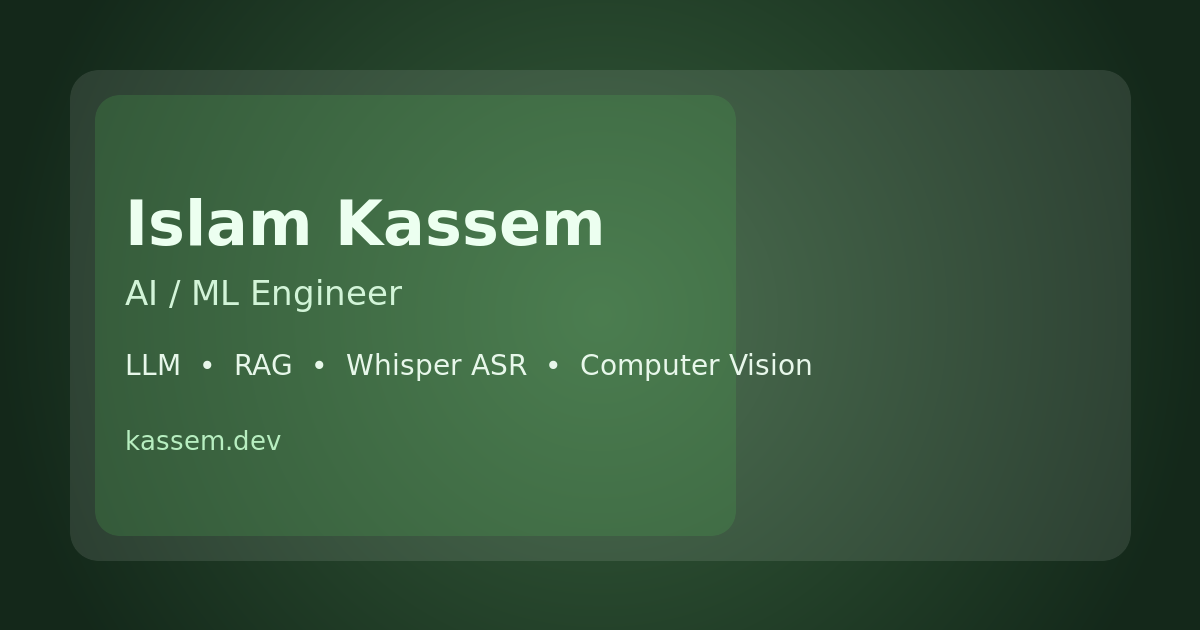
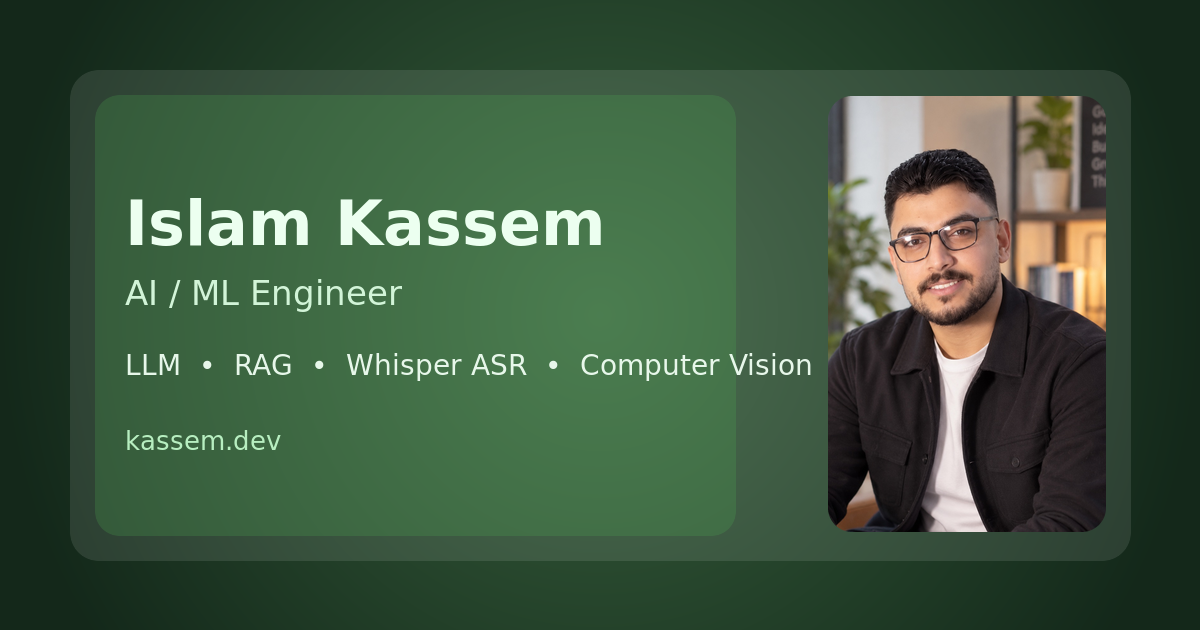
feat: update profile images and enhance hero section with responsive picture elements

Changed region(s): [[0.6783, 0.1508, 0.925, 0.8444]]

diff --git a/home/index.html b/home/index.html
@@ -49,7 +49,11 @@
         "@type": "Person",
         "name": "Islam Kassem",
         "url": "https://kassem.dev/home/",
-        "image": "https://kassem.dev/assets/Islam-Kassem-Profile-Pic.jpg",
+        "image": [
+          "https://kassem.dev/assets/profile/islam-kassem-square-800.jpg",
+          "https://kassem.dev/assets/profile/islam-kassem-4x3-1024.jpg",
+          "https://kassem.dev/assets/profile/islam-kassem-16x9-1200.jpg"
+        ],
         "jobTitle": "AI Engineer",
         "description": "AI Engineer and Machine Learning Engineer specializing in production LLM systems, RAG pipelines, generative AI, Whisper ASR, and MLOps infrastructure.",
         "sameAs": [
@@ -119,9 +123,17 @@
 
         <aside class="hero-panel" aria-label="Key profile details">
           <figure class="profile-card">
-            <img src="/assets/Islam-Kassem-Profile-Pic.jpg"
-              alt="Islam Kassem — AI Engineer and Machine Learning Engineer specializing in LLMs and production ML"
-              width="576" height="1024" loading="eager" decoding="async" fetchpriority="high" />
+            <picture>
+              <source
+                type="image/webp"
+                srcset="/assets/profile/islam-kassem-portrait-400.webp 400w, /assets/profile/islam-kassem-portrait-640.webp 640w, /assets/profile/islam-kassem-portrait-900.webp 900w, /assets/profile/islam-kassem-portrait-1145.webp 1145w"
+                sizes="(max-width: 980px) calc(100vw - 4.5rem), 400px" />
+              <img src="/assets/profile/islam-kassem-portrait-640.jpg"
+                srcset="/assets/profile/islam-kassem-portrait-400.jpg 400w, /assets/profile/islam-kassem-portrait-640.jpg 640w, /assets/profile/islam-kassem-portrait-900.jpg 900w, /assets/profile/islam-kassem-portrait-1145.jpg 1145w"
+                sizes="(max-width: 980px) calc(100vw - 4.5rem), 400px"
+                alt="Islam Kassem — AI Engineer and Machine Learning Engineer specializing in LLMs and production ML"
+                width="1145" height="1374" loading="eager" decoding="async" fetchpriority="high" />
+            </picture>
           </figure>
           <div class="stat-card">
             <span class="stat-value">50+</span>

diff --git a/index.html b/index.html
@@ -49,7 +49,11 @@
 				"@type": "Person",
 				"name": "Islam Kassem",
 				"url": "https://kassem.dev/",
-				"image": "https://kassem.dev/assets/Islam-Kassem-Profile-Pic.jpg",
+				"image": [
+					"https://kassem.dev/assets/profile/islam-kassem-square-800.jpg",
+					"https://kassem.dev/assets/profile/islam-kassem-4x3-1024.jpg",
+					"https://kassem.dev/assets/profile/islam-kassem-16x9-1200.jpg"
+				],
 				"jobTitle": "AI Engineer",
 				"description": "AI Engineer and Machine Learning Engineer specializing in production LLM systems, RAG pipelines, generative AI, Whisper ASR, and MLOps infrastructure.",
 				"sameAs": [
@@ -147,9 +151,17 @@
 
 				<aside class="hero-panel" aria-label="Key profile details">
 					<figure class="profile-card">
-						<img src="assets/Islam-Kassem-Profile-Pic.jpg"
-							alt="Islam Kassem — AI Engineer and Machine Learning Engineer specializing in LLMs and production ML"
-							width="576" height="1024" loading="eager" decoding="async" fetchpriority="high" />
+						<picture>
+							<source
+								type="image/webp"
+								srcset="/assets/profile/islam-kassem-portrait-400.webp 400w, /assets/profile/islam-kassem-portrait-640.webp 640w, /assets/profile/islam-kassem-portrait-900.webp 900w, /assets/profile/islam-kassem-portrait-1145.webp 1145w"
+								sizes="(max-width: 980px) calc(100vw - 4.5rem), 400px" />
+							<img src="/assets/profile/islam-kassem-portrait-640.jpg"
+								srcset="/assets/profile/islam-kassem-portrait-400.jpg 400w, /assets/profile/islam-kassem-portrait-640.jpg 640w, /assets/profile/islam-kassem-portrait-900.jpg 900w, /assets/profile/islam-kassem-portrait-1145.jpg 1145w"
+								sizes="(max-width: 980px) calc(100vw - 4.5rem), 400px"
+								alt="Islam Kassem — AI Engineer and Machine Learning Engineer specializing in LLMs and production ML"
+								width="1145" height="1374" loading="eager" decoding="async" fetchpriority="high" />
+						</picture>
 					</figure>
 					<div class="stat-card">
 						<span class="stat-value">50+</span>

diff --git a/css/styles.css b/css/styles.css
@@ -228,12 +228,17 @@ h3 {
     linear-gradient(180deg, rgba(255, 255, 255, 0.82), rgba(241, 246, 239, 0.92));
 }
 
+.profile-card picture {
+  display: block;
+  height: 100%;
+}
+
 .profile-card img {
   display: block;
   width: 100%;
   height: 100%;
   object-fit: cover;
-  object-position: center 24%;
+  object-position: center 28%;
 }
 
 .stat-card,

diff --git a/CLAUDE.md b/CLAUDE.md
@@ -30,6 +30,8 @@ All pages are standalone HTML files inside subdirectories (`about/index.html`, `
 | `resume/` | Resume page + PDF download |
 | `contact/` | Contact form and social links |
 | `open-fpl/` | Legacy path — redirects to the OpenFPL Scout AI app at `openfpl.kassem.dev` |
+| `assets/profile/` | Profile photo derivatives: `-portrait-{400,640,900,1145}.{jpg,webp}` for the hero `<picture>`, plus 1:1 / 4:3 / 16:9 crops referenced by the Person structured data |
+| `assets/social-preview.png` | 1200×630 Open Graph / Twitter card image |
 | `css/styles.css` | Single stylesheet; uses CSS custom properties for theming |
 | `js/main.js` | IntersectionObserver for scroll-reveal animations |
 
@@ -39,3 +41,4 @@ All pages are standalone HTML files inside subdirectories (`about/index.html`, `
 - CSS custom properties (variables) are defined in `:root` in `styles.css`; use those for colors and spacing rather than hard-coding values.
 - When adding a new page: create the subdirectory with an `index.html`, add it to `sitemap.xml`, and update the nav in **every existing page**.
 - Structured data (Schema.org), Open Graph, and Twitter Card meta tags are present on each page — keep them updated when page content changes.
+- The hero profile photo is served through a `<picture>` with a WebP `<source>` and a JPEG `srcset`. If the photo changes, regenerate every size in `assets/profile/` rather than swapping a single file, and delete variants nothing references.
